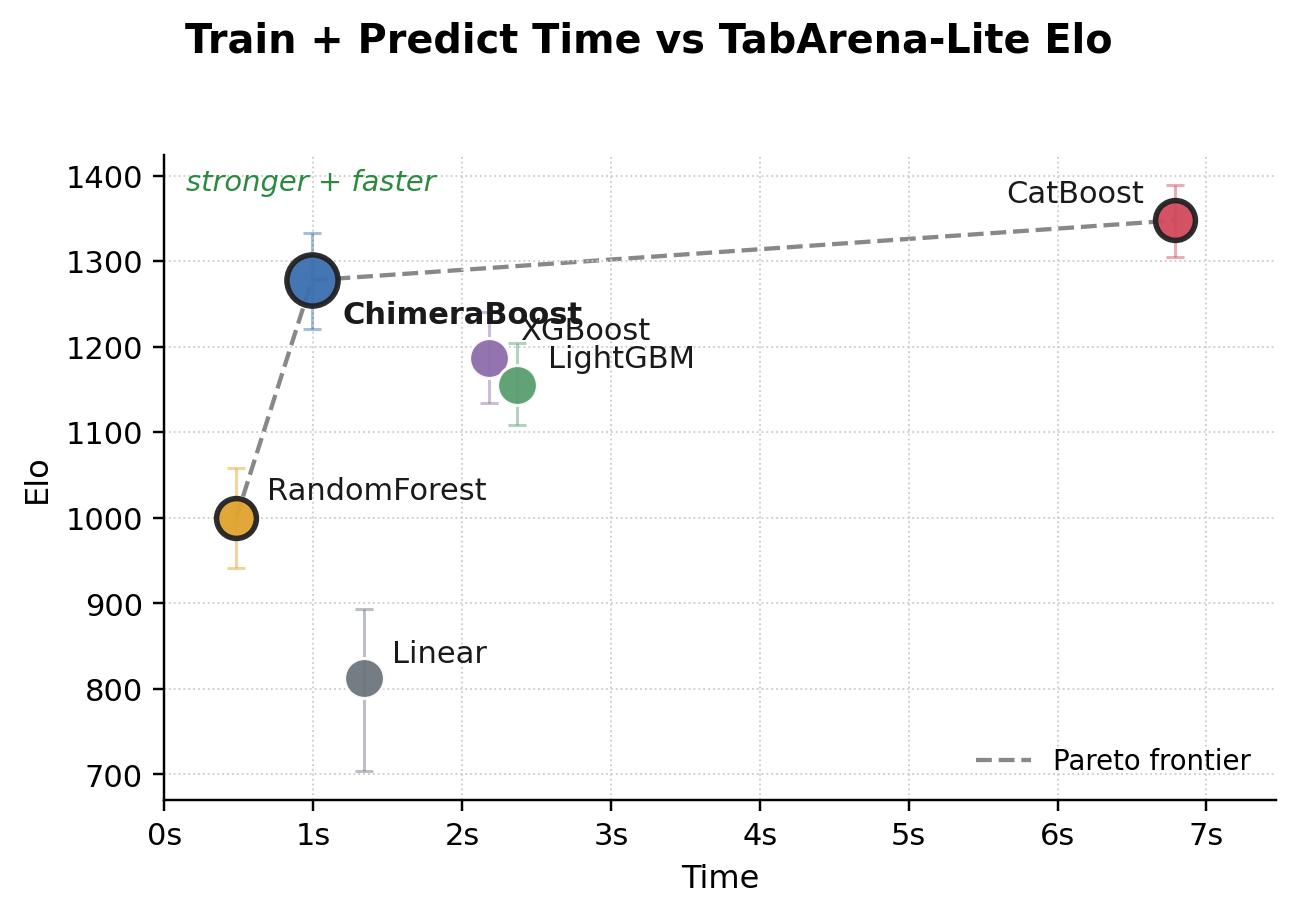
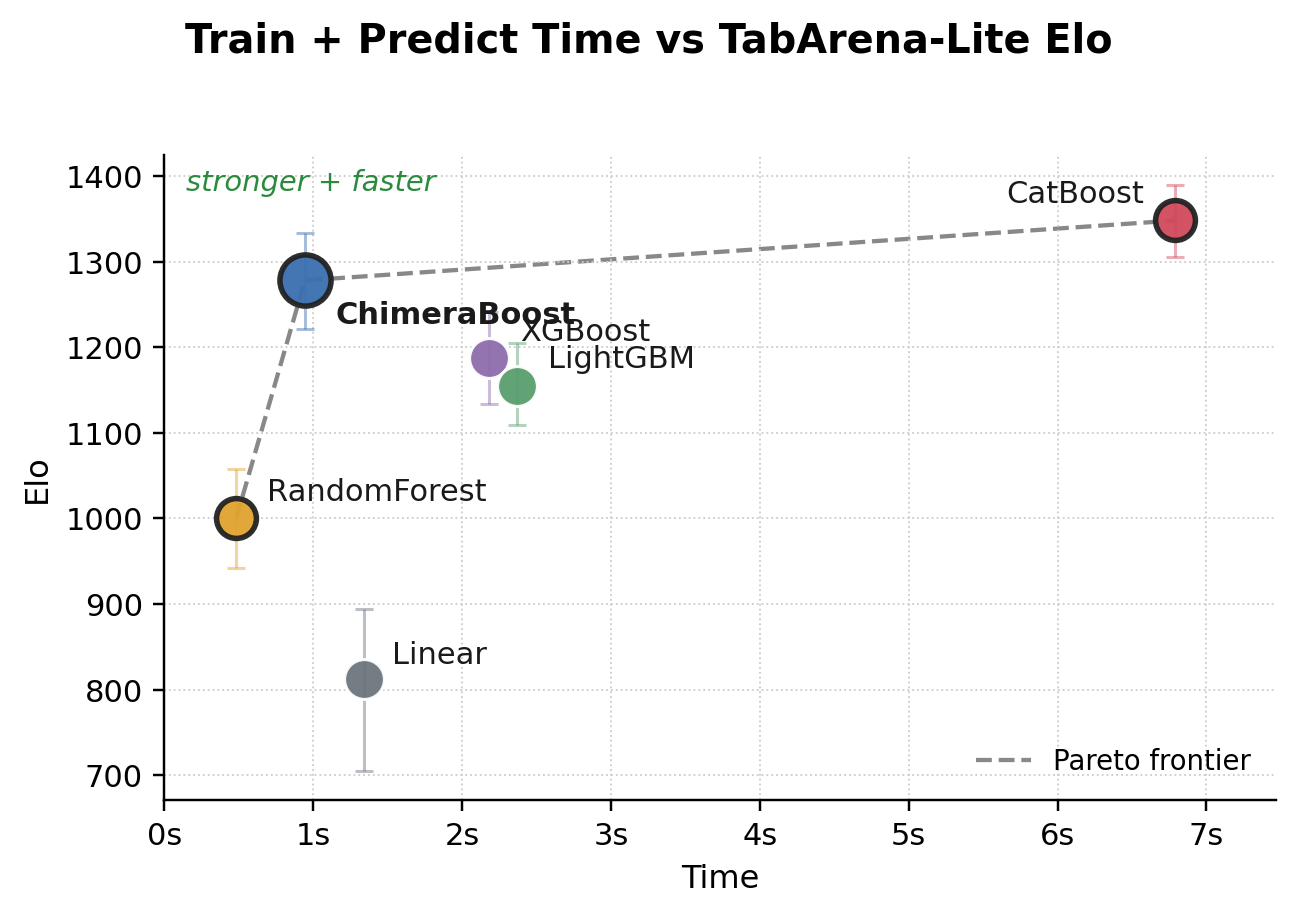
Refresh TabArena pareto (post-0.23.0 Lite re-read: Elo pool byte-identical, ChimB 1278 rank 31/68; predict 0.162->0.125 s/1K)
Claude-Session: https://claude.ai/code/session_01WD2LMMYqx1nyxxE7pKRcUv

diff --git a/benchmarks/make_tabarena_pareto.py b/benchmarks/make_tabarena_pareto.py
@@ -28,24 +28,24 @@ MODEL_COLOR = {
 }
 
 # TabArena-Lite, default config, bagged. (elo, elo_plus, elo_minus, train_s/1K, predict_s/1K)
-# Refreshed 2026-07-18 (51-task run, 0/51 fail) after 0.18.0 shipped quantized-gradient
-# histograms as the default (packed-int64 split search; see CHANGELOG).
-# Elo is relative, so the whole pool was re-read from the regenerated leaderboard.
-# HONEST READ: ChimeraBoost Elo 1267 -> 1264 (-3) -- inside the +-58/60 CI band, i.e.
-# statistically flat, reported as-is per the sealed-holdout vow (no per-task digging).
-# The pool sat still same-run (CatBoost 1346->1348, XGB/LGBM/RF/Linear exact), so the
-# -3 is our-row noise, not a pool shift. The meaningful check passed: accuracy did NOT
-# drop after the quantization default flip (rank 32/68 unchanged). Train 0.79 -> 0.81
-# s/1K is flat: Lite's median task is small and overhead-dominated, so the 20-26% fit
-# win the quantization gives on Grinsztajn/high-card does NOT express here (a known
-# property of Lite -- don't read TabArena speed from it). Predict flat.
+# Refreshed 2026-07-23 (51-task run, 0/51 fail, fresh fits) on 0.23.0, after the
+# predict-side engineering releases 0.21.0-0.23.0 (per-member cat-transform sharing,
+# cross-block cast reuse, serial kernel twins for tiny batches -- all bit-identical
+# on default paths). Elo is relative, so the whole pool was re-read from the
+# regenerated leaderboard.
+# HONEST READ: every Elo in the pool is byte-identical to the 2026-07-20 read
+# (ChimeraBoost 1278, rank 31/68) -- exactly what bit-identical engineering should
+# do to a sealed holdout. The payoff is the timing column: predict 0.162 -> 0.125
+# s/1K (-23%), recovering most of the 0.109 -> 0.162 regression the 0.20.0
+# cat-cross columns introduced. Train 0.83 -> 0.82 = flat (Lite's median task is
+# small and overhead-dominated -- don't read TabArena fit speed from it).
 DATA = {
     "CatBoost":     (1348, 42, 43, 6.70, 0.088),
-    "ChimeraBoost": (1278, 55, 57, 0.83, 0.162),
+    "ChimeraBoost": (1278, 55, 57, 0.82, 0.125),
     "XGBoost":      (1187, 54, 53, 2.06, 0.122),
     "LightGBM":     (1155, 50, 46, 2.20, 0.171),
     "RandomForest": (1000, 58, 58, 0.43, 0.053),
-    "Linear":       (813, 81, 109, 1.23, 0.115),
+    "Linear":       (813, 81, 108, 1.23, 0.115),
 }
 
 